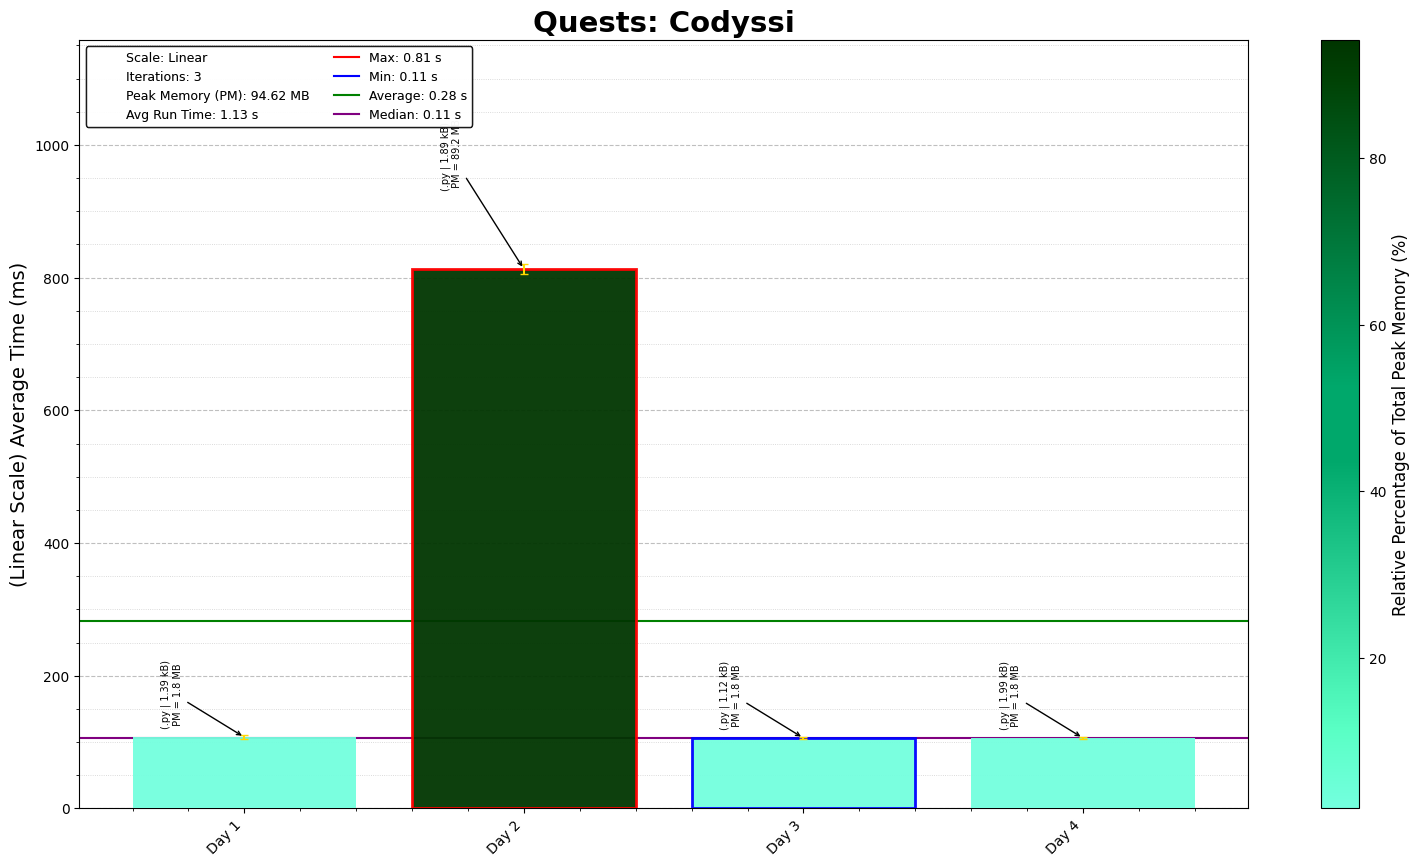
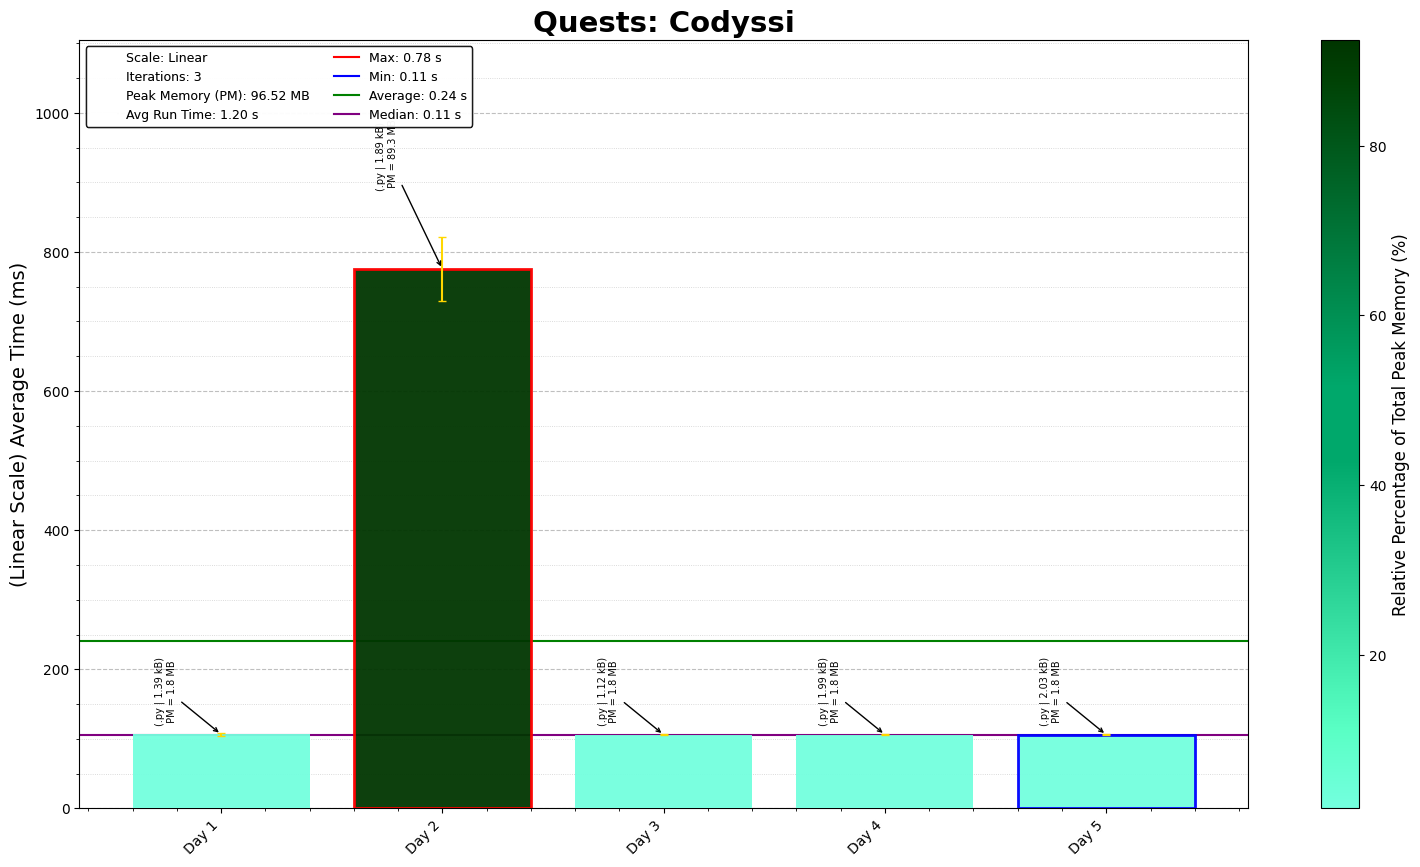
Codyssi Day 5

diff --git a/Codyssi/2025/05/CodyssiDay05.py b/Codyssi/2025/05/CodyssiDay05.py
@@ -1,0 +1,65 @@
+"""Codyssi Puzzles - Problem 5
+Solution Started: Apr 8, 2025
+Puzzle Link: https://www.codyssi.com/view_problem_9?
+Solution by: Abbas Moosajee
+Brief: [Patron Islands]
+"""
+
+#!/usr/bin/env python3
+
+import os
+
+# Load the input data from the specified file path
+D05_file = "Day05_input.txt"
+D05_file_path = os.path.join(os.path.dirname(os.path.abspath(__file__)), D05_file)
+
+# Read and sort input data into a grid
+with open(D05_file_path) as file:
+    input_data = file.read().strip().split('\n')
+    island_coords = [tuple(map(int, coords.strip("()").split(","))) for coords in input_data]
+
+min_dist = float('inf')
+max_dist = float('-inf')
+
+for x, y in island_coords:
+    dist = abs(x) + abs(y)
+    max_dist = max(max_dist, dist)
+    if dist <= min_dist:
+        min_dist = min(min_dist, dist)
+        closest = (x, y)
+
+print("Part 1:", max_dist - min_dist)
+
+min_dist = [abs(x - closest[0]) + abs(y - closest[1]) for x, y in island_coords if (x, y) != closest]
+print("Part 2:", min(min_dist))
+
+prev_island = (0, 0)
+travel_distance = []
+visited_islands = set(island_coords)
+
+while visited_islands:
+    # Initialize the closest island info
+    min_dist = float('inf')
+
+    # Iterate over the remaining unvisited islands
+    for x, y in visited_islands:
+        distance = abs(x - prev_island[0]) + abs(y - prev_island[1])
+
+        # Update the closest island, considering ties by x and y coordinates
+        if distance < min_dist or \
+            (distance == min_dist and (x < next_island[0] or \
+                (x == next_island[0] and y < next_island[1]))):
+            min_dist = distance
+            next_island = (x, y)
+
+    # Output the closest island and distance to it
+    # print(f"Traveling to island {next_island} with distance {min_dist}")
+
+    # Remove the selected island from visited islands and update the travel distance
+    visited_islands.remove(next_island)
+    travel_distance.append(min_dist)
+
+    # Update the current position
+    prev_island = next_island
+
+print("Part 3:", sum(travel_distance))

diff --git a/Create_Script.py b/Create_Script.py
@@ -43,17 +43,17 @@ def generate_header(day, year, author):
     # Construct the header content
     header_dict = {
     "Codyssi" : f"""Codyssi Puzzles - Problem {day}
-    Solution Started: {month} {current_time.tm_mday}, {current_time.tm_year}
-    Puzzle Link: https://www.codyssi.com/view_problem_{4+day}?
-    Solution by: {author}
-    Brief: [Code/Problem Description]
-    """,
+Solution Started: {month} {current_time.tm_mday}, {current_time.tm_year}
+Puzzle Link: https://www.codyssi.com/view_problem_{4+day}?
+Solution by: {author}
+Brief: [Code/Problem Description]
+""",
     "i18n": """i18n Puzzles - Puzzle {day}
-    Solution Started: {month} {current_time.tm_mday}, {current_time.tm_year}
-    Puzzle Link: https://i18n-puzzles.com/puzzle/%7Bday%7D/
-    Solution by: {author}
-    Brief: [Code/Problem Description]
-    """}
+Solution Started: {month} {current_time.tm_mday}, {current_time.tm_year}
+Puzzle Link: https://i18n-puzzles.com/puzzle/%7Bday%7D/
+Solution by: {author}
+Brief: [Code/Problem Description]
+"""}
     return header_dict[year]
 
 def main():
